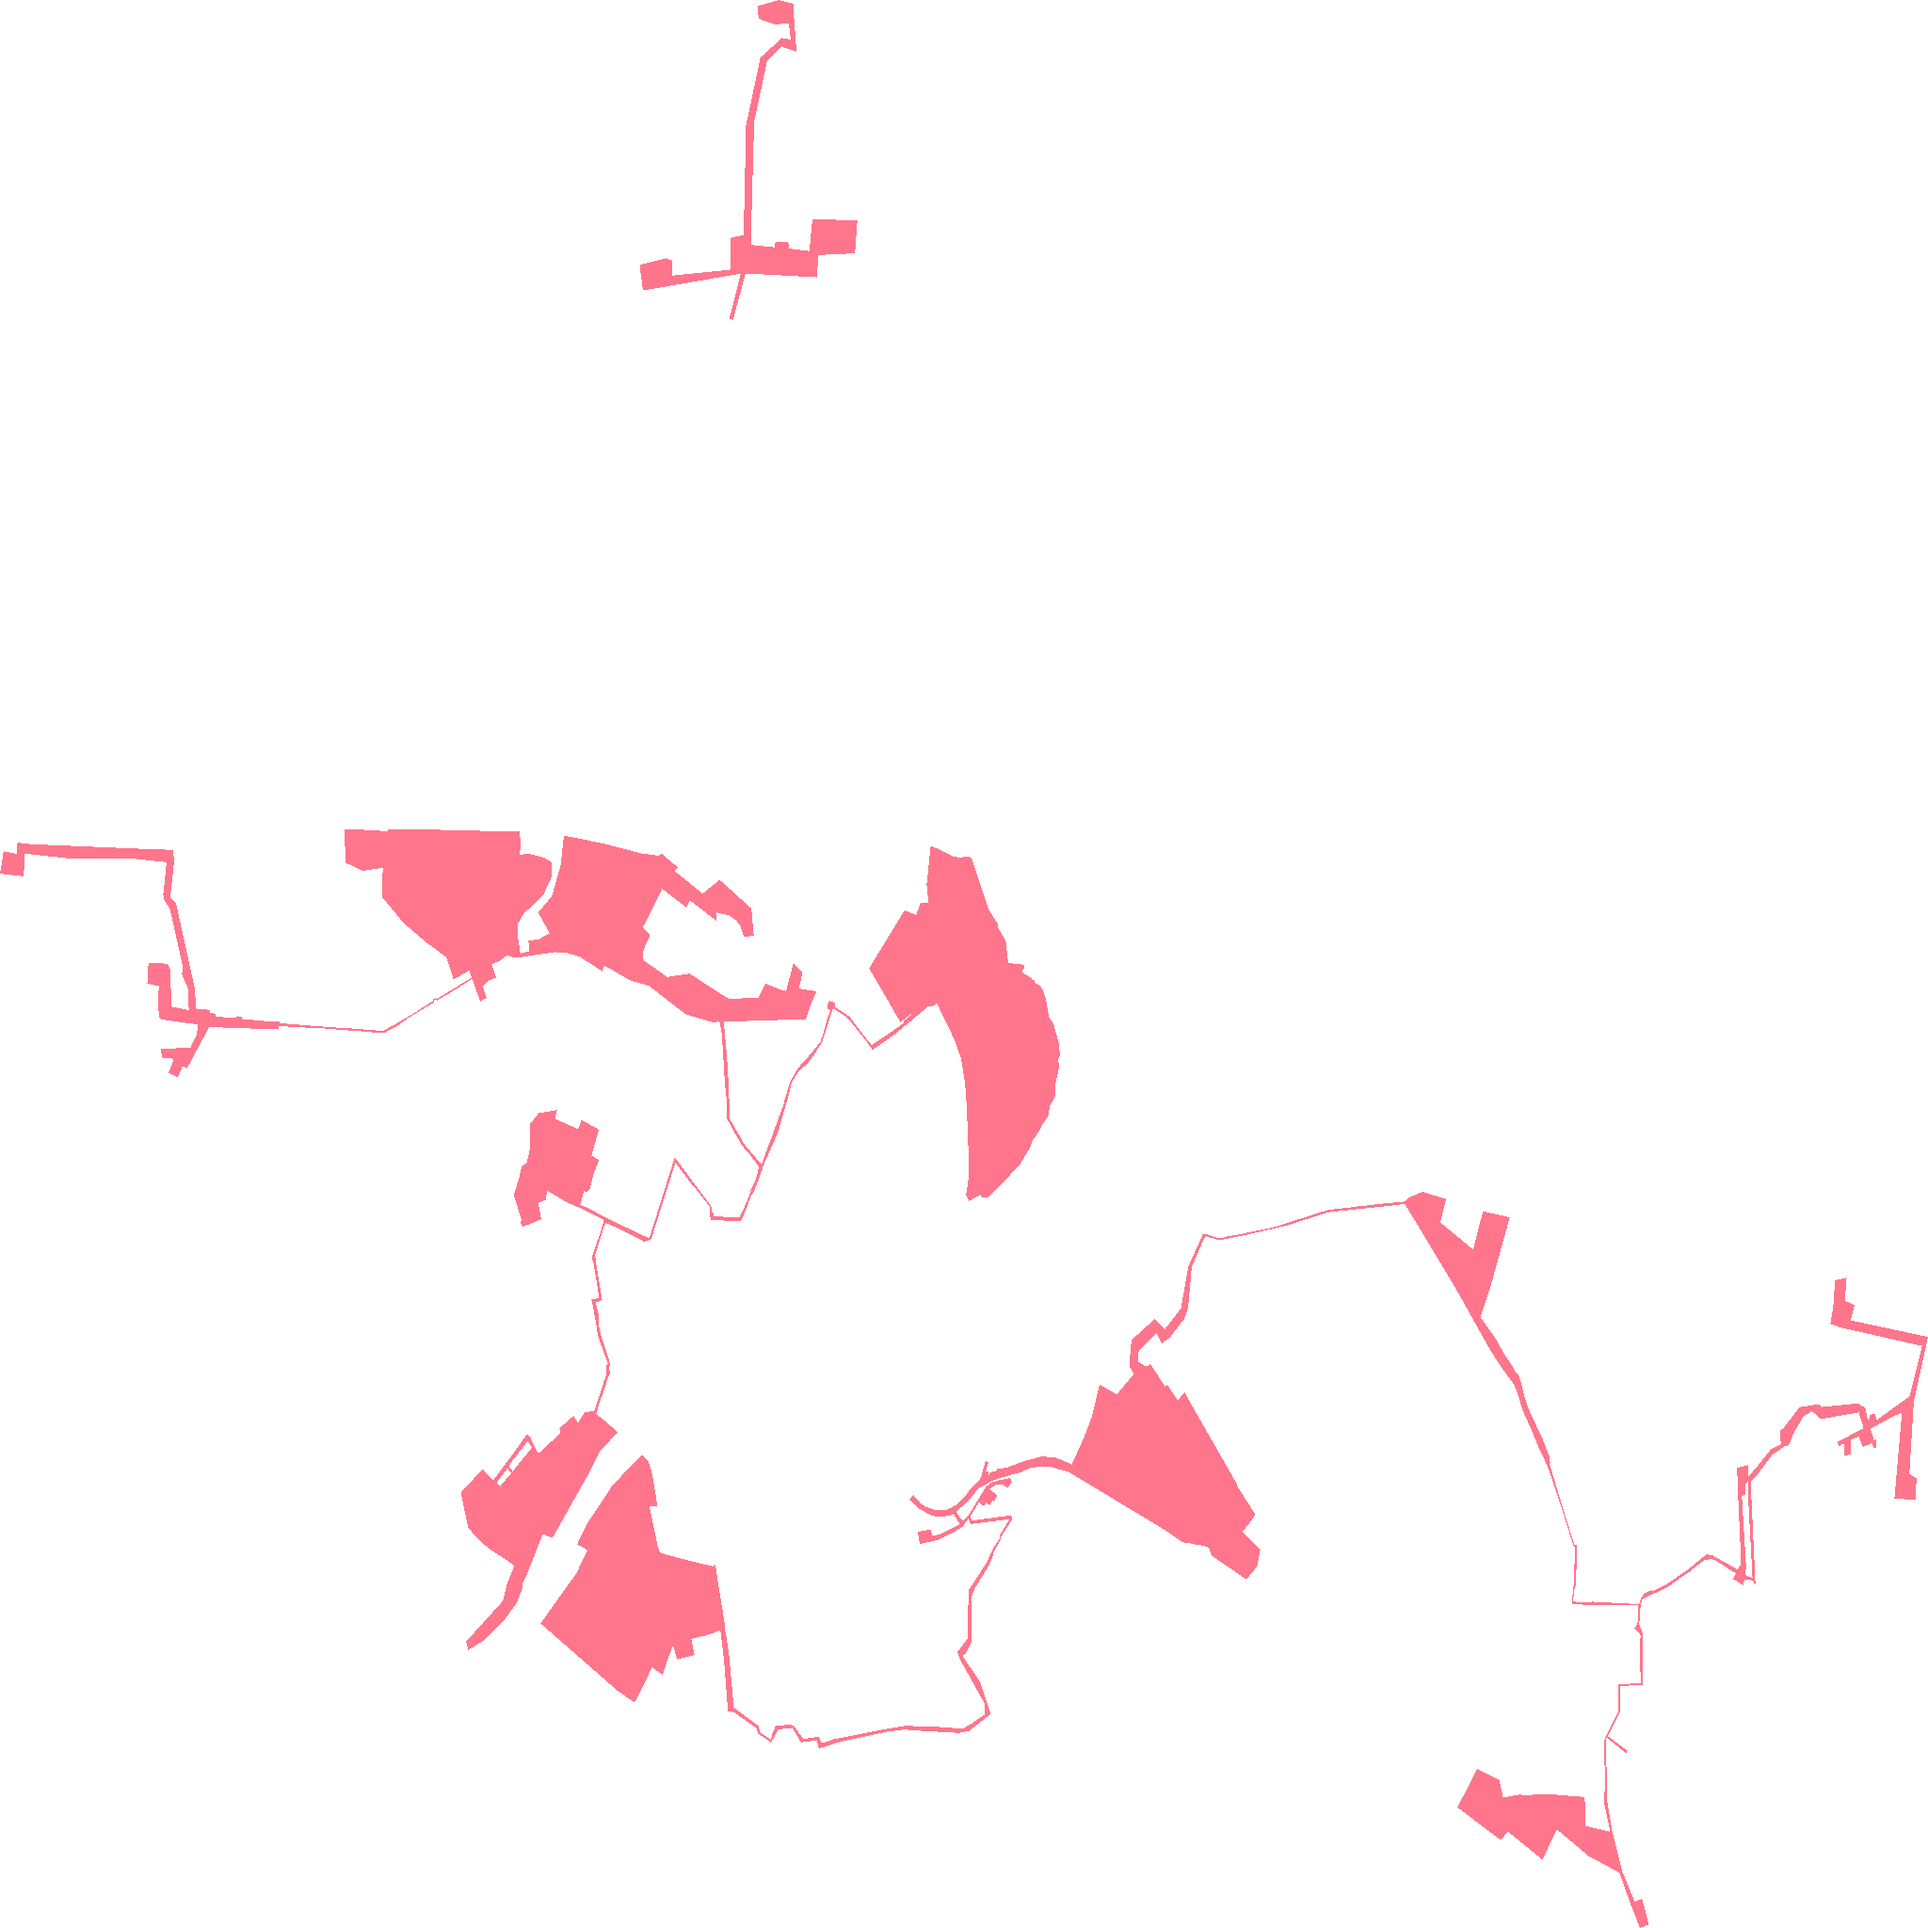
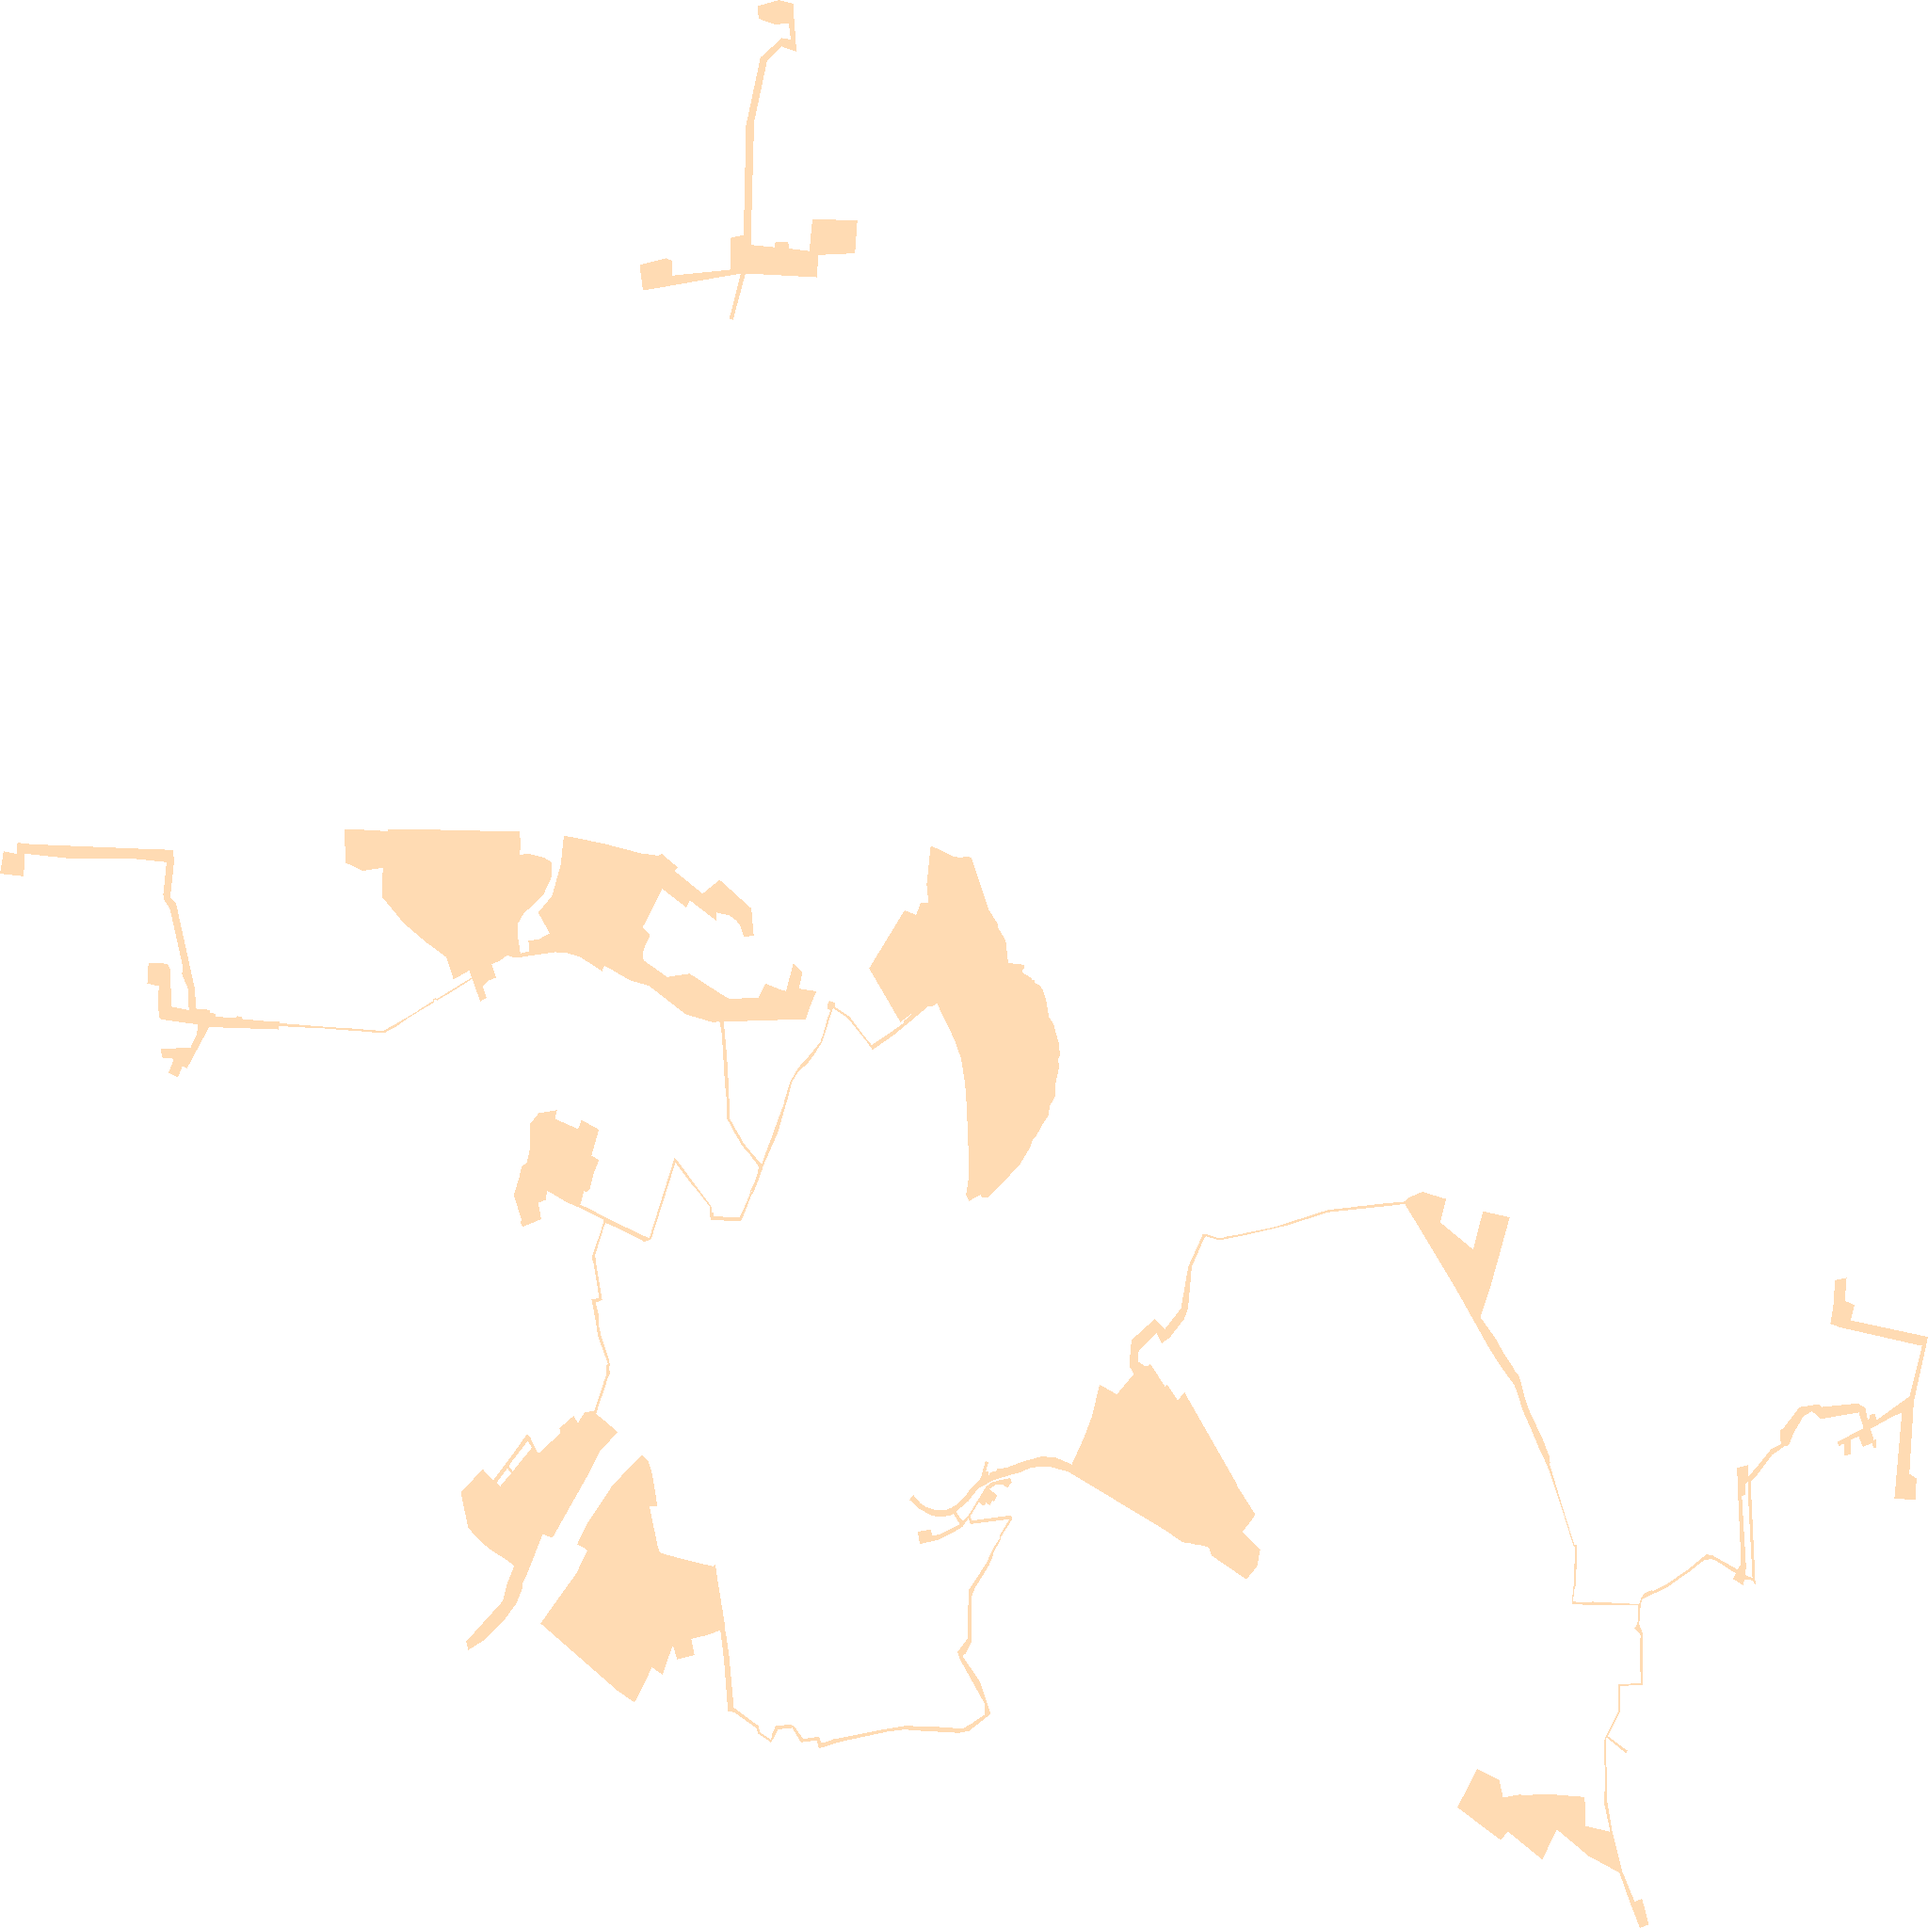
Karte sp_629

diff --git a/sp_629.html b/sp_629.html
@@ -60,7 +60,7 @@
         }
         .custom-control2 {
             position: absolute;
-            bottom: -320px;
+            top: 110px;
             left: 0px;
             background: white;
             padding: 5px;
@@ -77,24 +77,6 @@
         .custom-control:hover, .custom-control2:hover {
             background-color: #f0f0f0 !important;
         }
-        .leaflet-control-geocoder-icon {
-            background-color: white !important;
-            color: grey !important;
-            border: none !important;
-            width: 20px;
-            height: 20px;
-            display: flex;
-            justify-content: center;
-            align-items: center;
-            font-size: 15px;
-            font-family: 'Montserrat', sans-serif;
-            box-shadow: 0 1px 3px rgba(0, 0, 0, 0.3);
-            border-radius: 2px;
-            cursor: pointer;
-        }
-        .leaflet-control-geocoder-icon:hover {
-            background-color: #f0f0f0 !important;
-        }
         .custom-marker {
             width: 15px;
             height: 15px;
@@ -104,8 +86,8 @@
         }
         #legend {
             position: absolute;
-            bottom: 80px;
-            left: 55px;
+            top: 160px;
+            left: 10px;
             display: none;
             z-index: 1000;
             background: white;
@@ -128,8 +110,9 @@
 <body>
     <div id="map"></div>
     <div id="legend">
-        <div><span style="display:inline-block; width:20px; height:10px; background:#FF7F00; margin-right:5px;"></span>Ausbauphase 1: Ausbau bei ausreichender Nachfrage</div>
+        <div><span style="display:inline-block; width:20px; height:10px; background:#FF7F00; margin-right:5px;"></span>Ausbauphase 1: Glasfasernetz vorhanden oder geplant</div>
         <div><span style="display:inline-block;width:20px; height:10px; background:#00143C; margin-right:5px;"></span>Ausbauphase 2: Interessenbekundung möglich</div>
+        <div><span style="display:inline-block;width:20px; height:10px; background:#FFC17D; margin-right:5px;"></span>Ausbauphase 3: Gefördertes Ausbaugebiet </div>
     </div>
     <script>
     const bounds = [[50.365699072, 8.013718208], [50.432376029, 8.145469473]];
@@ -166,20 +149,6 @@
         });
         map.addControl(new legendControl());
         const markerLayerGroup = L.layerGroup().addTo(map);
-        const geocoder = L.Control.geocoder({
-            defaultMarkGeocode: false
-        })
-            .on('markgeocode', function (e) {
-                markerLayerGroup.clearLayers();
-                const latlng = e.geocode.center;
-                const customMarker = L.divIcon({
-                    className: 'custom-marker'
-                });
-                const marker = L.marker(latlng, { icon: customMarker });
-                markerLayerGroup.addLayer(marker);
-                map.fitBounds(bounds);
-            })
-            .addTo(map);
     </script>
 </body>
 </html>
